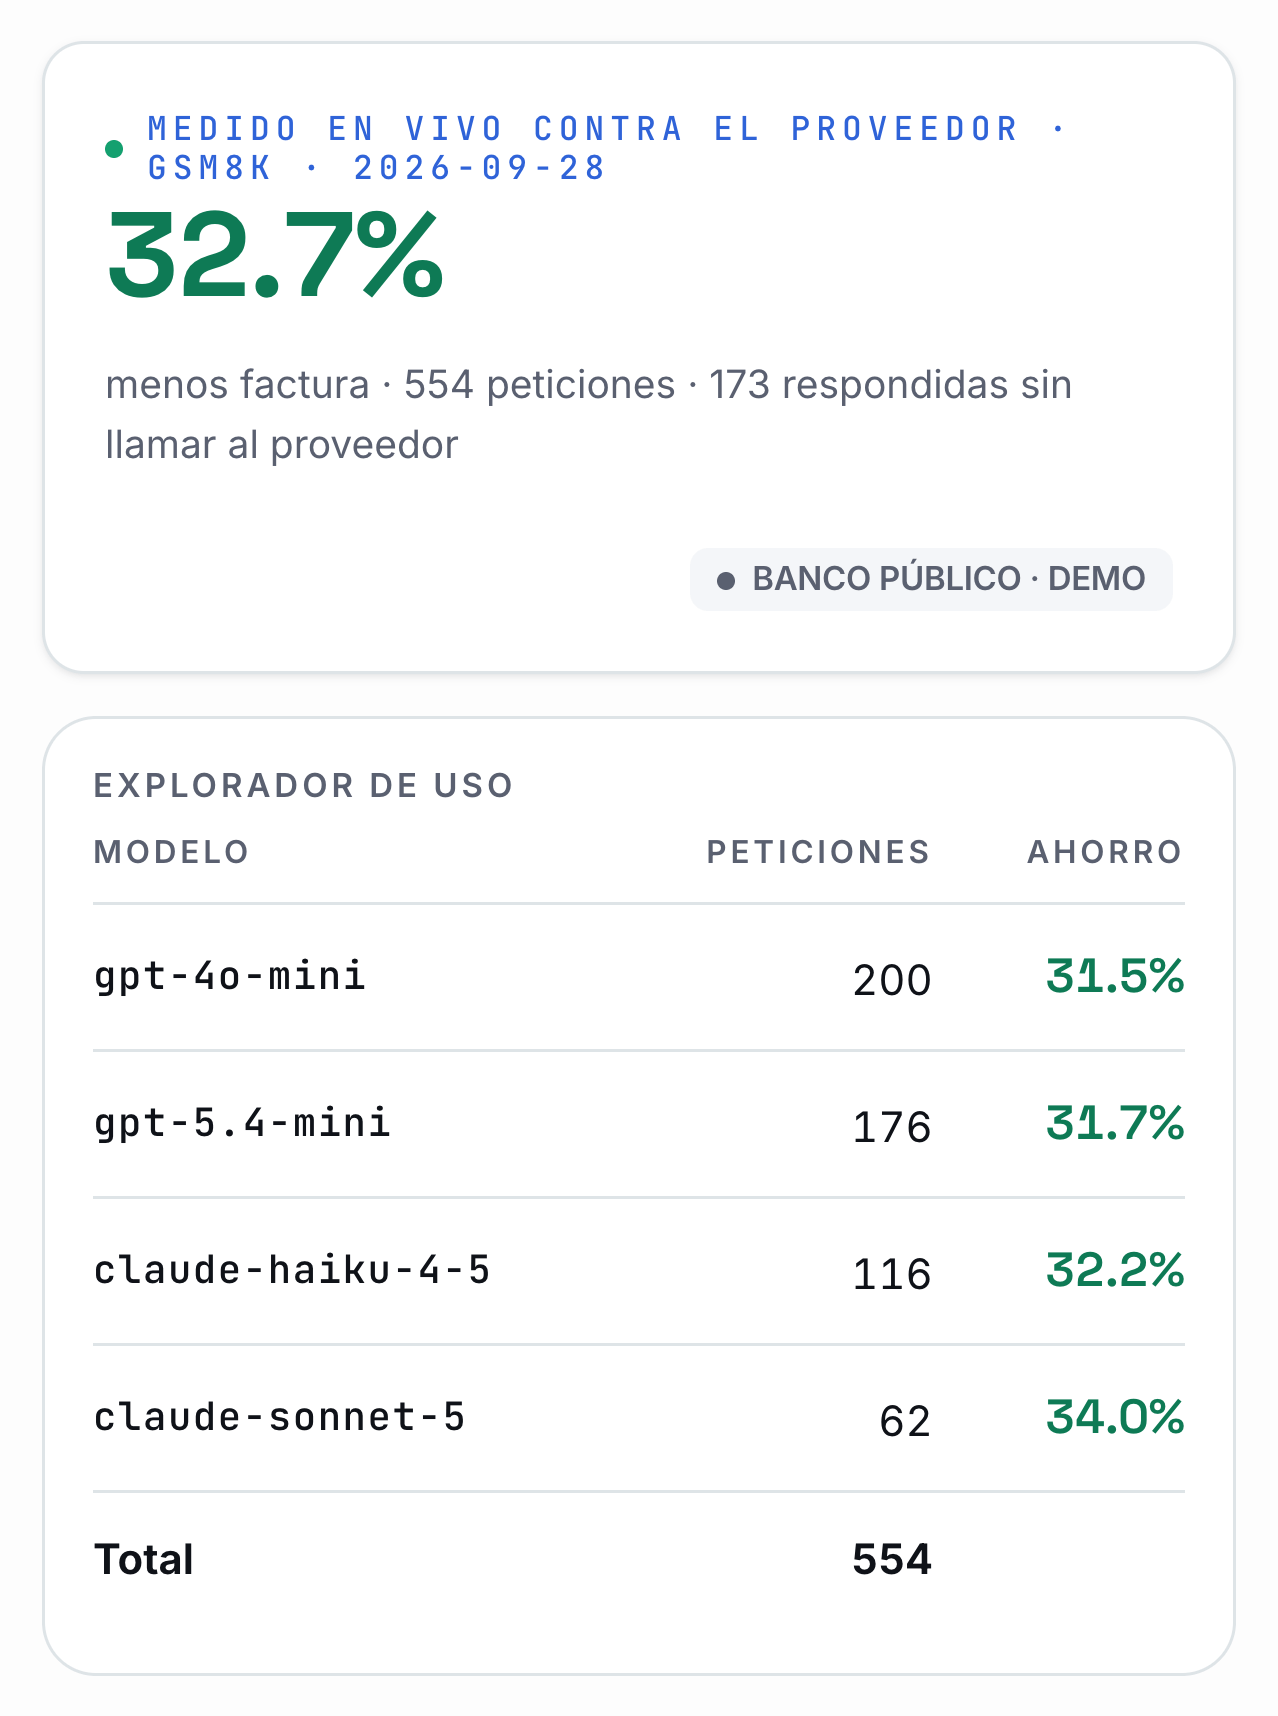
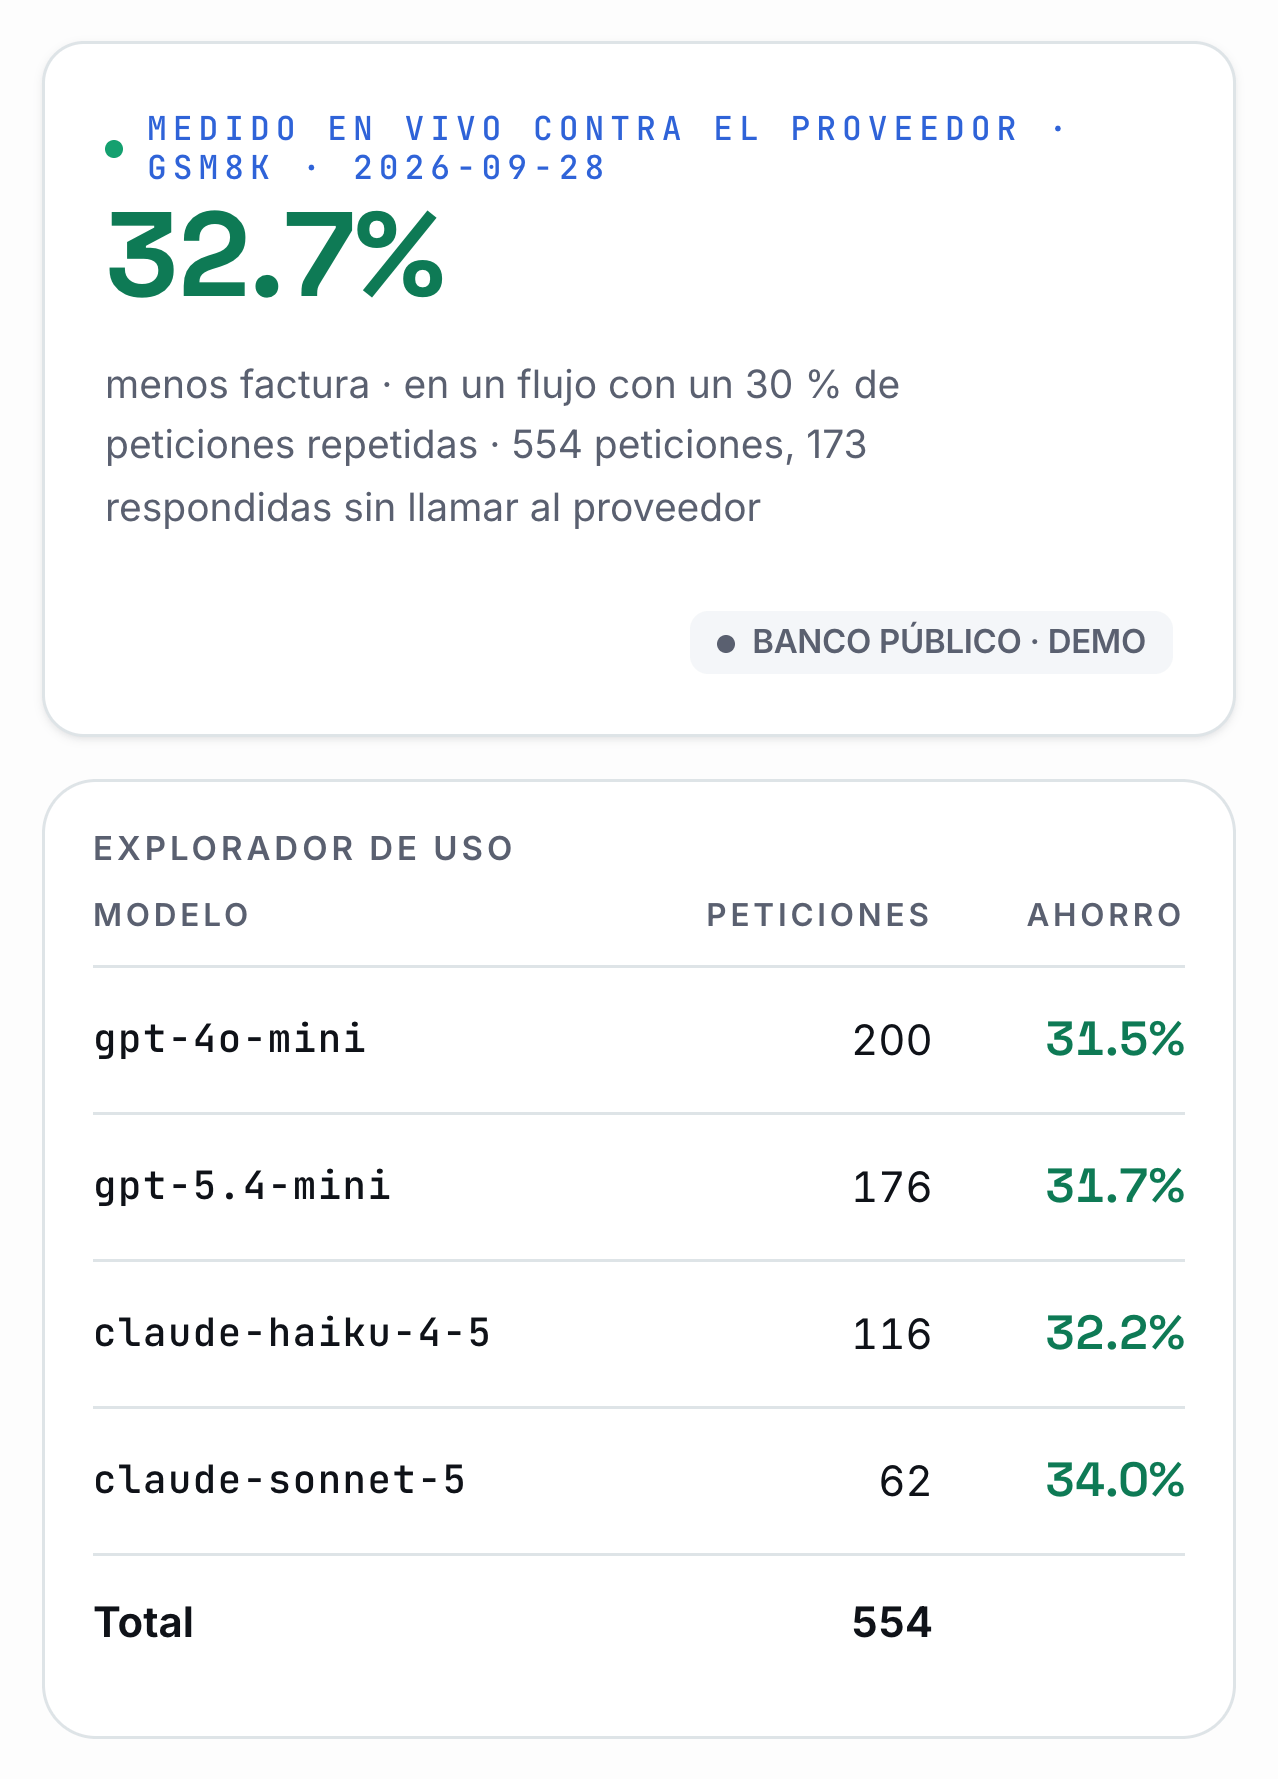
fix(web): la captura del héroe dice la condición de su cifra — un flujo con un 30 % de peticiones repetidas
El 32.7 % solo vale para un tráfico que repite así. El pie del titular de la
captura lo dice ahora al lado de la cifra («menos factura · en un flujo con
un 30 % de peticiones repetidas · 554 peticiones, 173 respondidas sin llamar
al proveedor»), con el 30 % sacado de BANCO_EN_VIVO.repeticiones y una verja
que lo cuadra con los informes. Las dos tomas, recapturadas.

diff --git a/apps/web/lib/portada/panel-del-banco.ts b/apps/web/lib/portada/panel-del-banco.ts
@@ -71,14 +71,16 @@ export const PANEL_DEL_BANCO = {
    * Los rótulos que la captura pone donde el panel de un cliente diría «tu
    * factura», «últimos 30 días» o «live · tu organización»: aquí son UN día
    * del banco público en una organización de demostración, y se dice así.
-   * `{peticiones}` y `{evitadas}` se rellenan con las filas de abajo.
+   * `{peticiones}` y `{evitadas}` se rellenan con las filas de abajo, y
+   * `{repeticiones}` con la condición del flujo (`BANCO_EN_VIVO.repeticiones`):
+   * el ahorro solo vale para un tráfico que repite así, y la captura lo dice.
    */
   rotulos: {
     antetituloPagina: "Banco público · demo",
     tituloPagina: "Lo que ahorró Savings en el banco público",
     antetitulo: "Medido en vivo contra el proveedor · GSM8K · 2026-09-28",
     pastilla: "Banco público · demo",
-    pie: "menos factura · {peticiones} peticiones · {evitadas} respondidas sin llamar al proveedor",
+    pie: "menos factura · en un flujo con un {repeticiones} de peticiones repetidas · {peticiones} peticiones, {evitadas} respondidas sin llamar al proveedor",
     columnaValor: "Peticiones",
     columnaAhorro: "Ahorro",
   },
@@ -201,6 +203,7 @@ export function ahorroPorModeloDelBanco(): Record<string, number> {
 export function pieDelTitular(): string {
   const d = filasDiariasDelBanco()[0]!;
   return PANEL_DEL_BANCO.rotulos.pie
+    .replace("{repeticiones}", new Intl.NumberFormat("es-ES", { style: "percent", maximumFractionDigits: 0 }).format(BANCO_EN_VIVO.repeticiones))
     .replace("{peticiones}", d.requests.toLocaleString("es-ES"))
     .replace("{evitadas}", d.avoidedLlm.toLocaleString("es-ES"));
 }

diff --git a/apps/web/lib/portada/panel-del-banco.test.ts b/apps/web/lib/portada/panel-del-banco.test.ts
@@ -38,6 +38,8 @@ const RAIZ = join(WEB, "..", "..");
 type J = any;
 const informe = (ruta: string): J => JSON.parse(readFileSync(join(RAIZ, ruta), "utf8"));
 const P = PANEL_DEL_BANCO;
+/** La fracción de repeticiones exactas del flujo, en cada informe del panel. */
+const informes0 = () => [...new Set(P.modelos.map((m) => m.informe))].map((r) => informe(r).flujo.fraccionRepeticiones as number);
 const cerca = (a: number, b: number, msg: string) => expect(Math.abs(a - b), `${msg}: ${a} vs ${b}`).toBeLessThan(1e-9);
 
 describe("el panel del héroe, contra los informes del banco", () => {
@@ -162,6 +164,10 @@ describe("la imagen y la ruta que la produce", () => {
     const d = filasDiariasDelBanco()[0]!;
     expect(pie).toContain(`${d.requests} peticiones`);
     expect(pie).toContain(`${d.avoidedLlm} respondidas sin llamar al proveedor`);
+    // El titular solo vale para un flujo que repite así: la condición va al lado de la cifra.
+    expect(BANCO_EN_VIVO.repeticiones).toBe(0.3);
+    for (const r of informes0()) expect(r).toBe(BANCO_EN_VIVO.repeticiones);
+    expect(pie).toMatch(/^menos factura · en un flujo con un 30\s%\sde peticiones repetidas · /);
   });
 
   it("el ahorro de cada modelo es el de las filas (sin el proveedor) y cuadra con el informe", () => {
